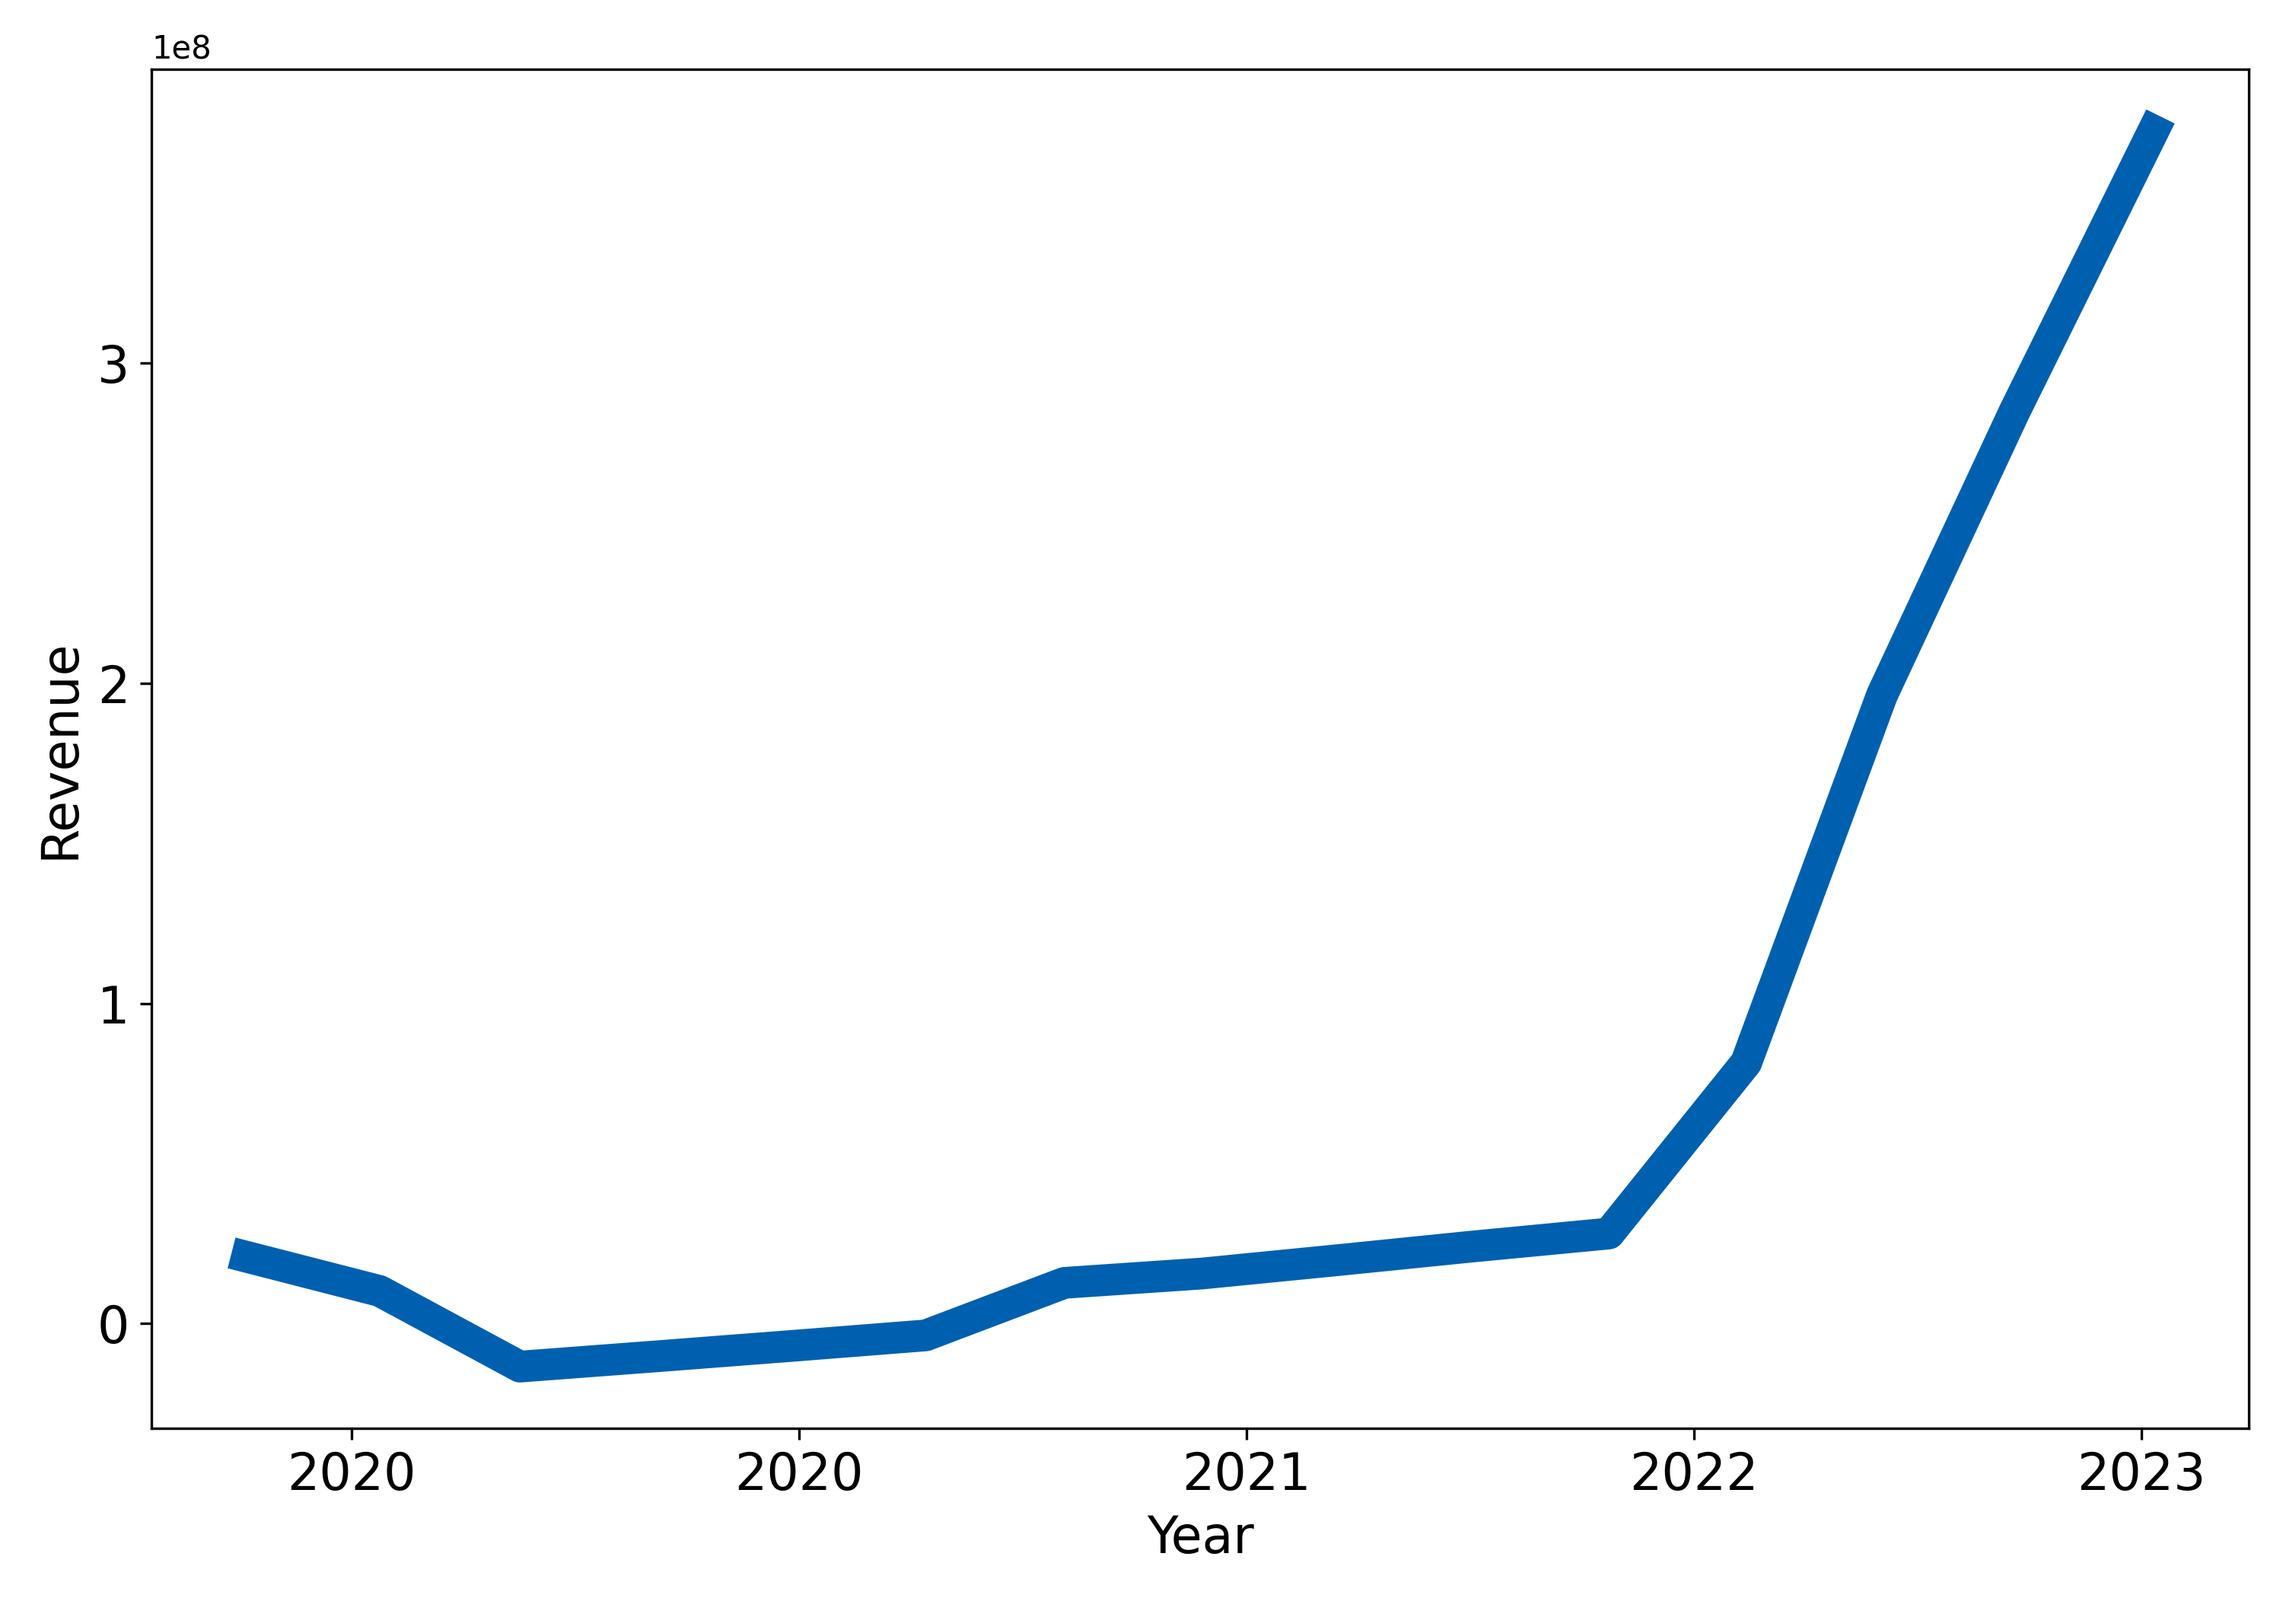
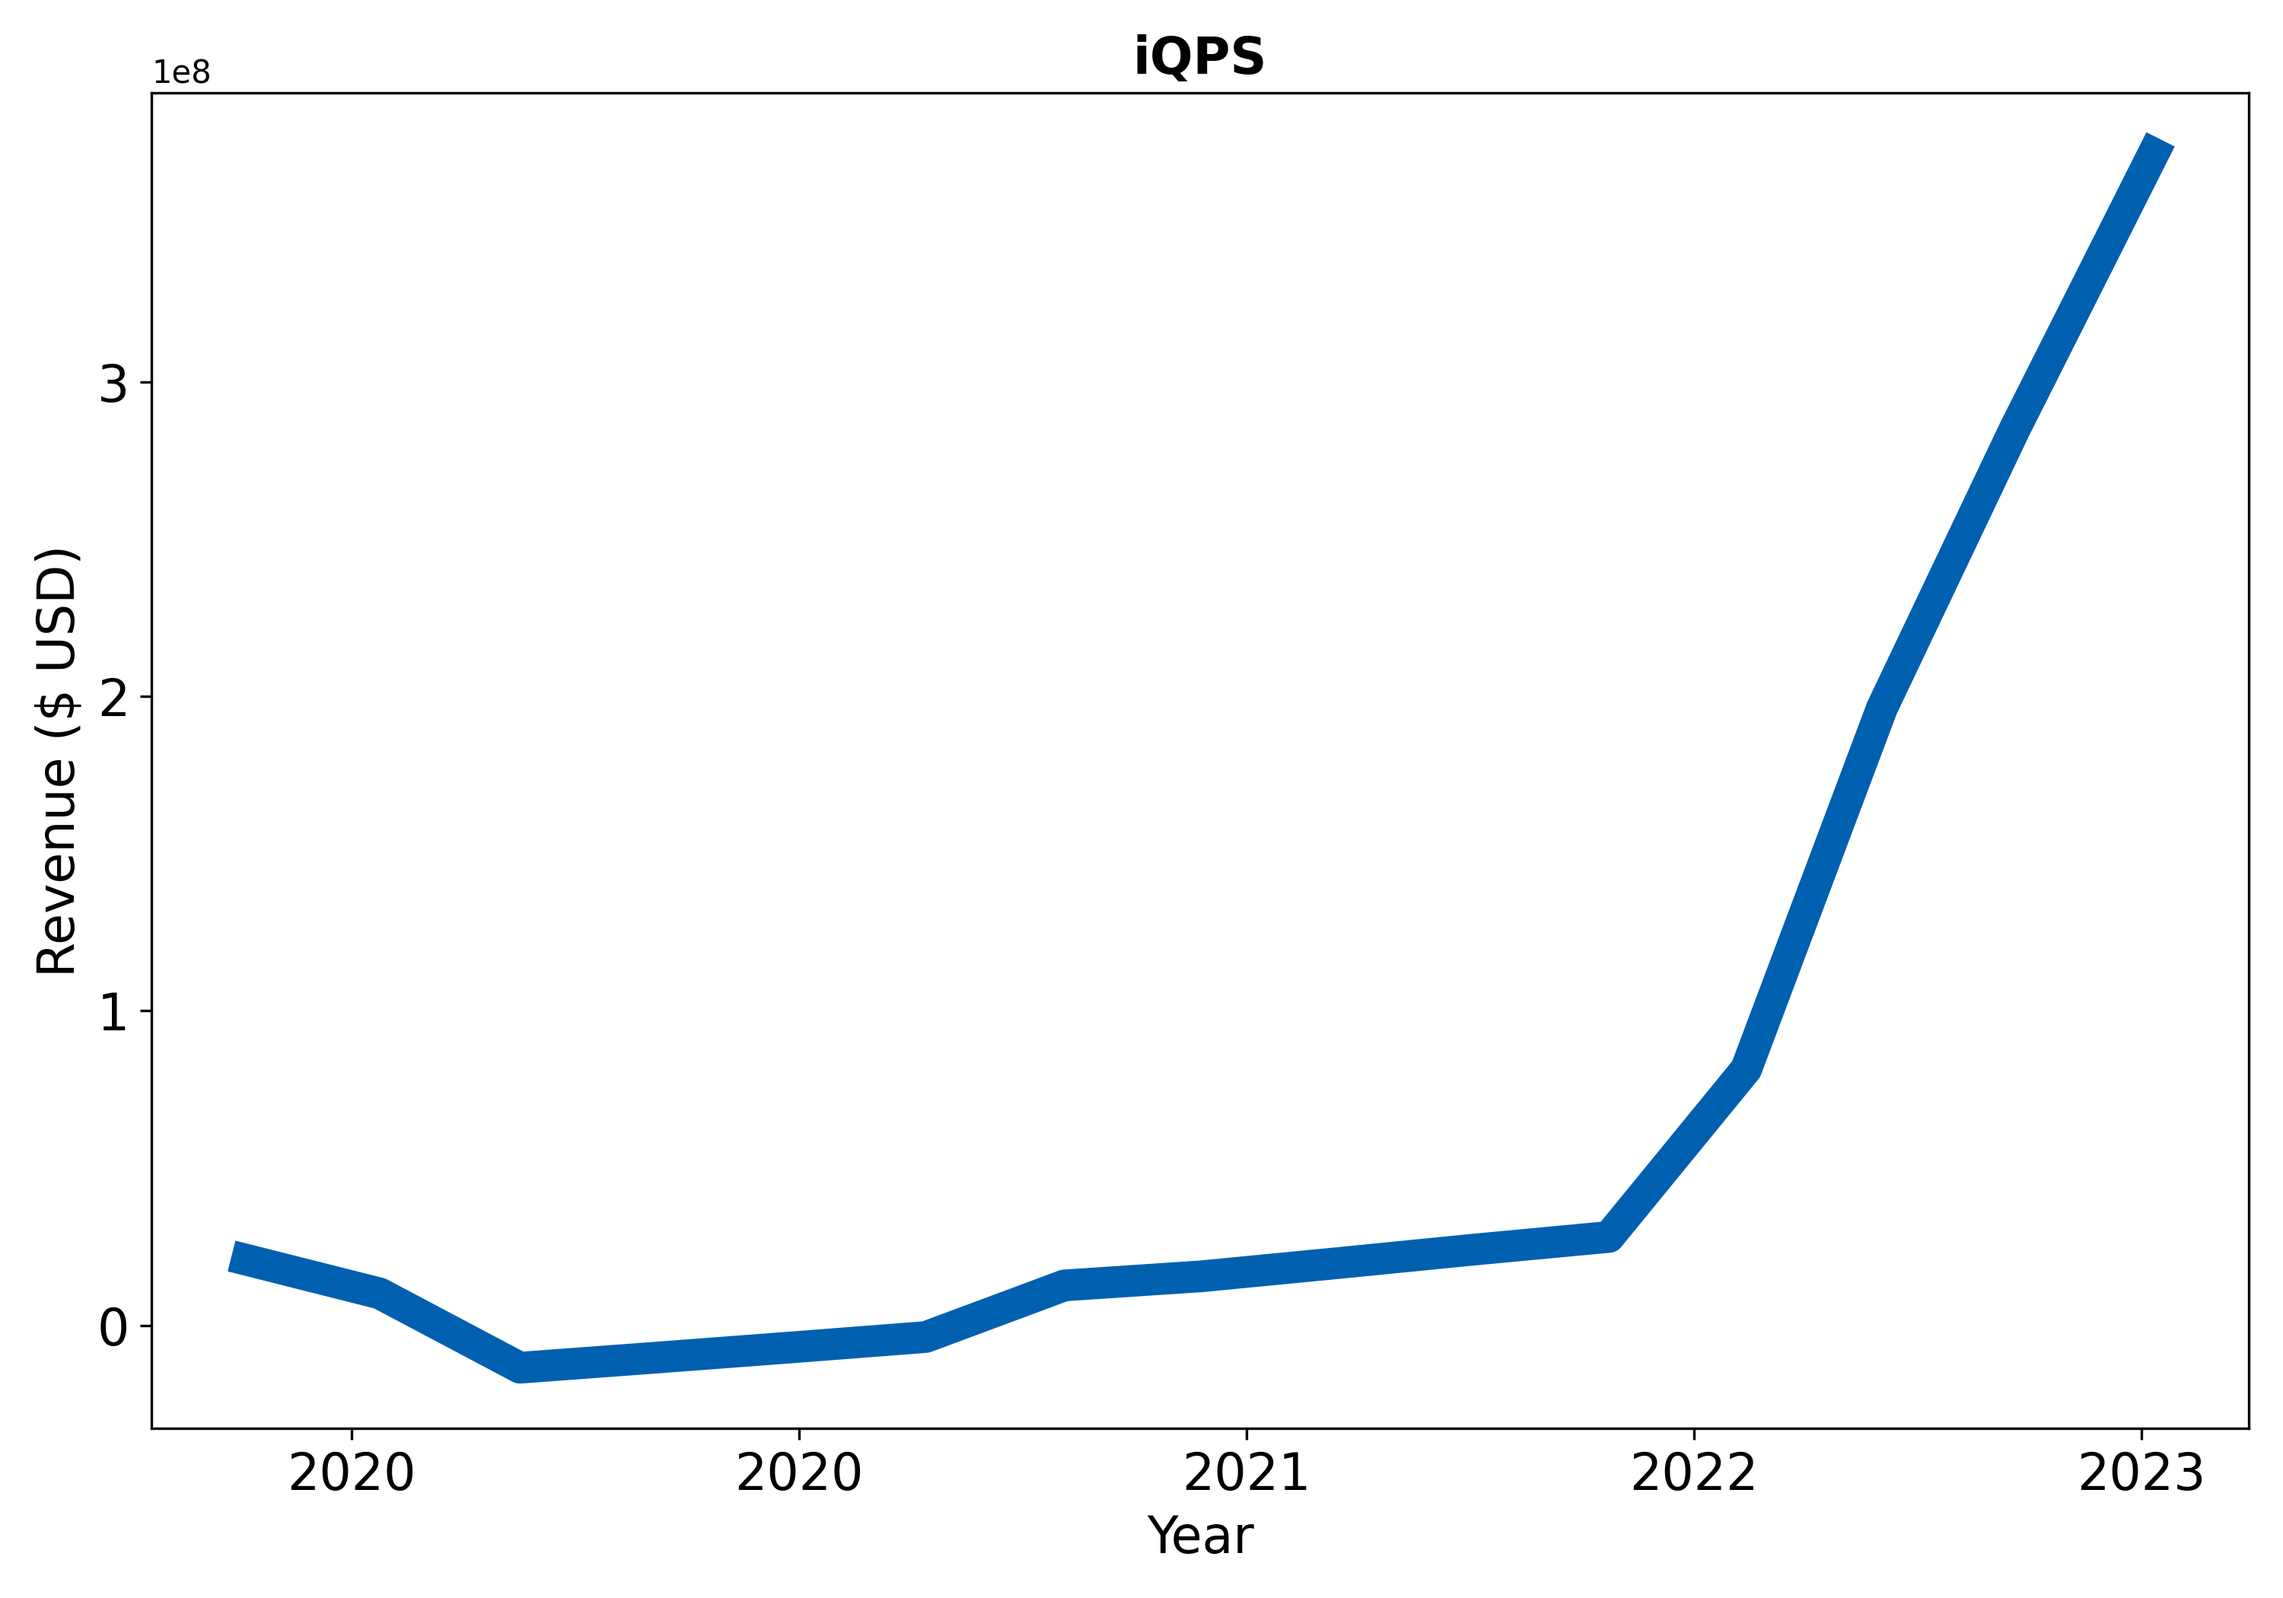
[FIX] title font, add ylabel in plotPredictions

diff --git a/src/plot_utils.py b/src/plot_utils.py
@@ -29,10 +29,10 @@ def plotKPIs(fig, ax, data, key, companyMetadata, company, ylabel):
     return fig
 
 def plotPredictions(fig, ax, time, prediction, companyMetadata, company):
-    plt.title(company, fontsize=16)
+    ax.set_title(company, fontsize=16, fontweight='bold')
     ax.tick_params(axis='both', which='major', labelsize=16)
     ax.set_xlabel('Year', fontsize=16)
-    ax.set_ylabel('Revenue', fontsize=16)
+    ax.set_ylabel('Revenue ($ USD)', fontsize=16)
     ax.xaxis.set_major_locator(ticker.MaxNLocator(nbins=5))
     ax.yaxis.set_major_locator(ticker.MaxNLocator(nbins=5))
     company_color = np.array(companyMetadata[company]["color"]) / 255
